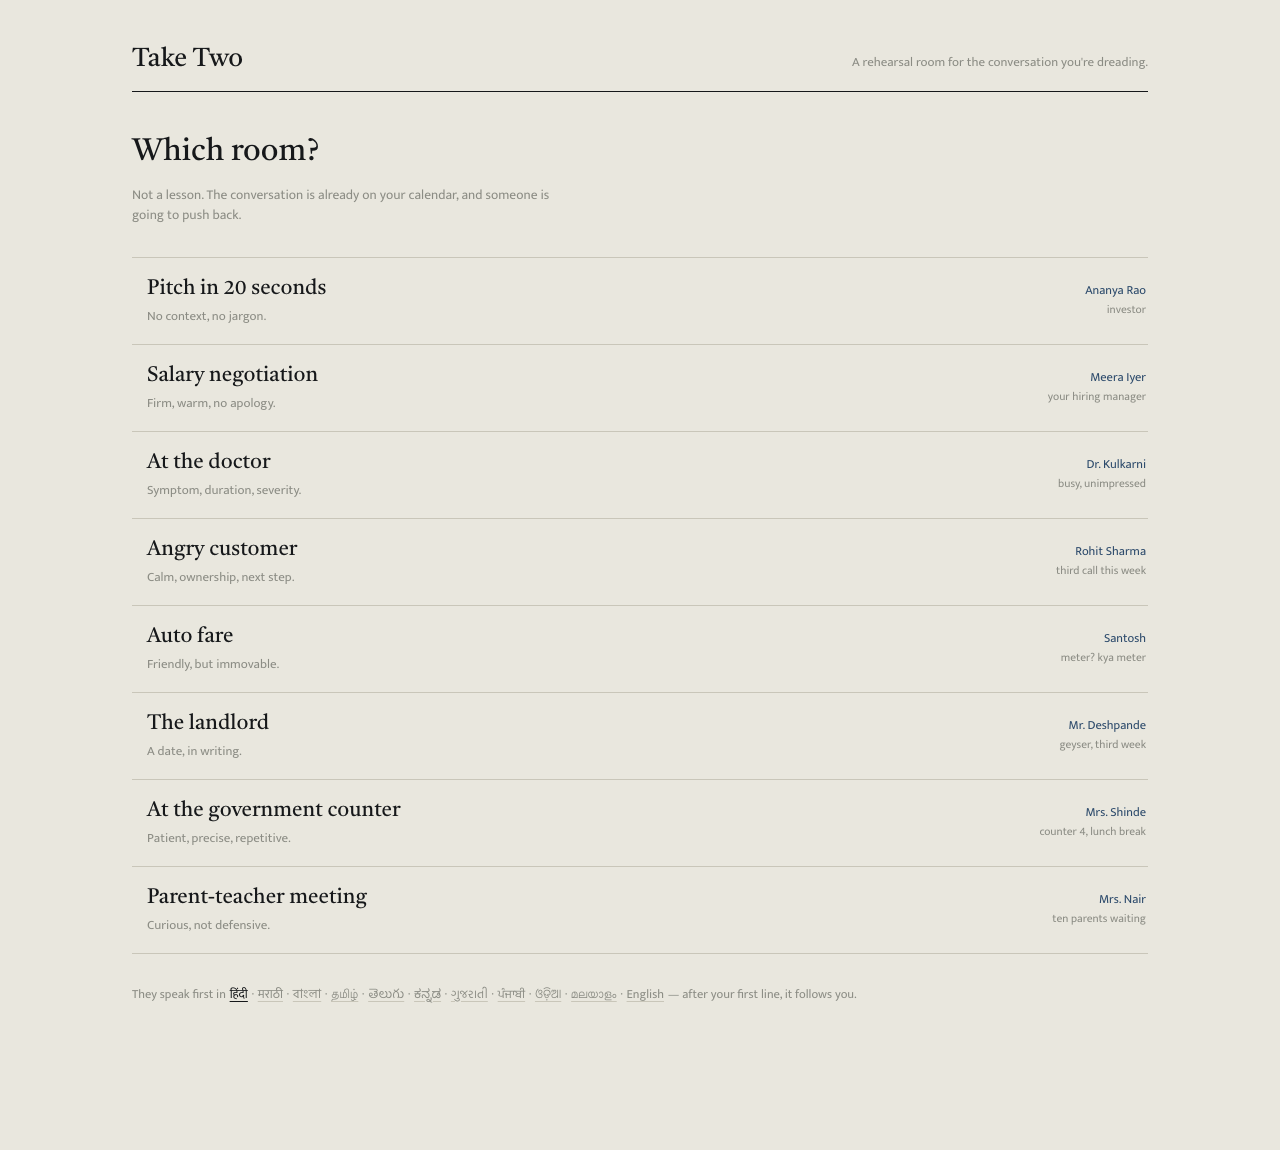
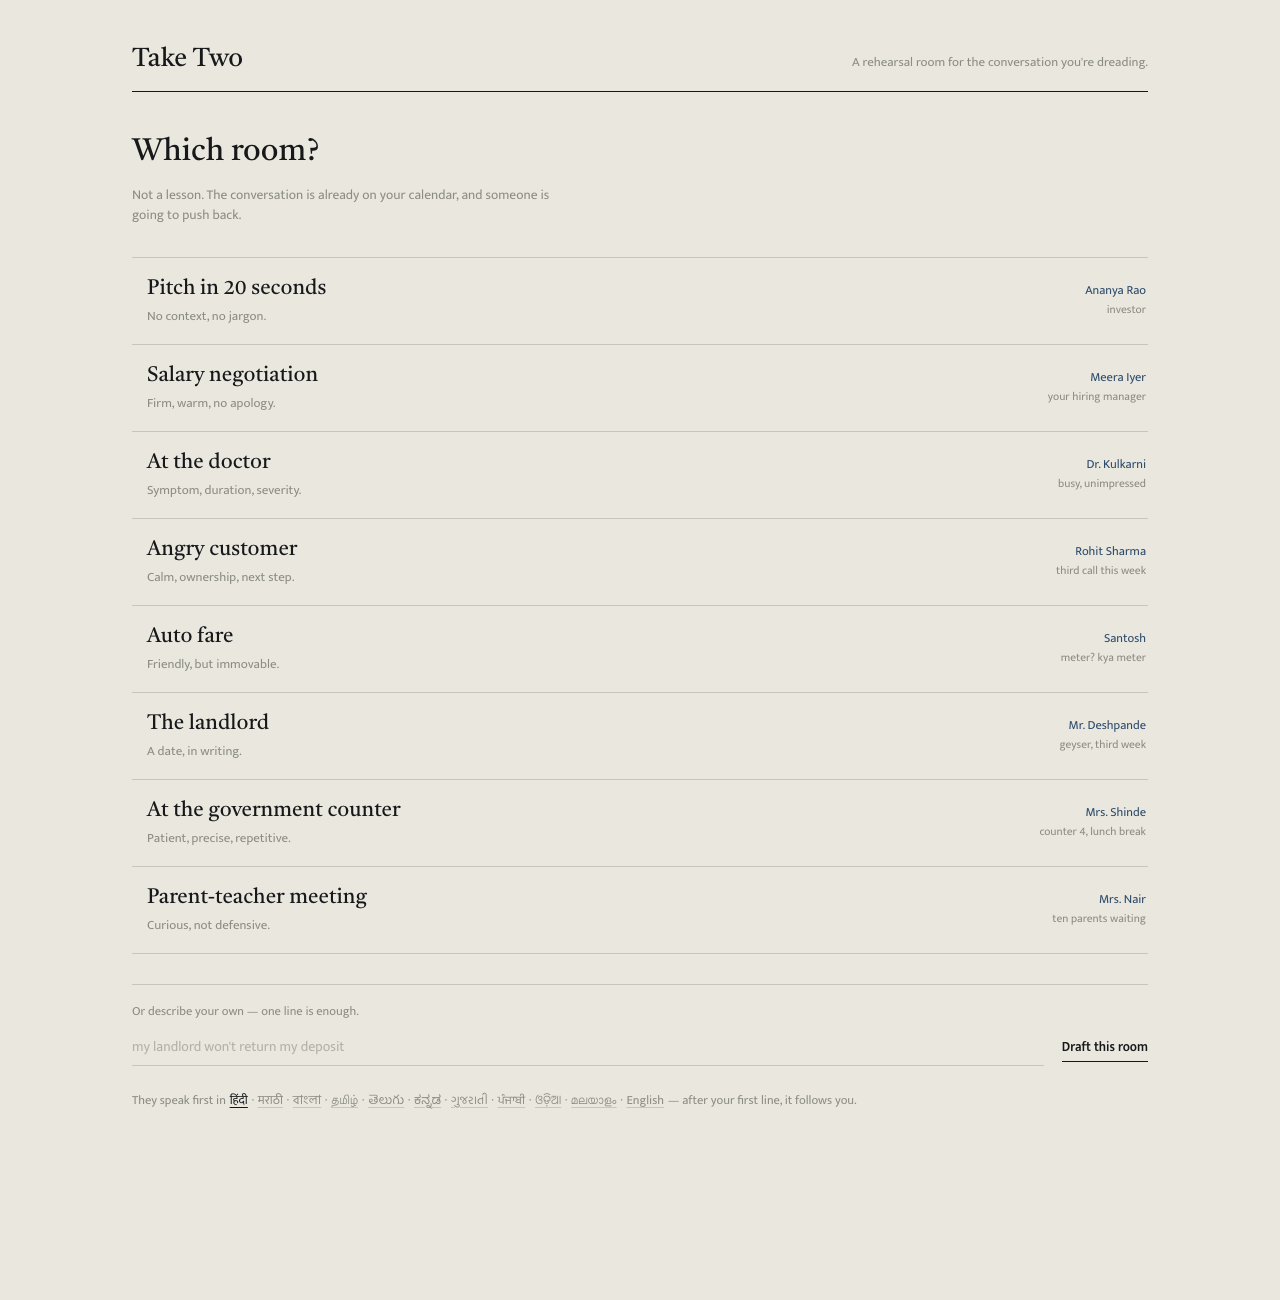
feat: draft a room from one line
Describe a conversation in a sentence; Gemini returns the title, the other
person, their agenda, the register, the success condition, and their numbers.

diff --git a/index.html b/index.html
@@ -43,6 +43,18 @@
   .room .other{color:var(--pencil);font-size:12.5px;text-align:right;line-height:1.35}
   .room .other em{display:block;color:var(--smoke);font-style:normal;font-size:11.5px;margin-top:2px}
 
+  .make{border-top:1px solid var(--rule);padding-top:18px;margin:0 0 24px}
+  .make label{display:block;font-size:12.5px;color:var(--smoke);margin-bottom:6px}
+  .makerow{display:flex;gap:18px;align-items:baseline}
+  .makerow input{flex:1;min-width:0;background:none;border:0;border-bottom:1px solid var(--rule);
+                 color:var(--ink);font-family:inherit;font-size:14px;padding:7px 0}
+  .makerow input::placeholder{color:#b3b0a5}
+  .makerow input:focus{outline:none;border-bottom-color:var(--pencil)}
+  .makerow button{background:none;border:0;border-bottom:1px solid var(--ink);padding:0 0 3px;
+                  font-family:inherit;font-size:13px;font-weight:600;color:var(--ink);
+                  cursor:pointer;white-space:nowrap}
+  .makerow button:hover{color:var(--red);border-color:var(--red)}
+  .makerow button:disabled{color:var(--smoke);border-color:var(--rule);cursor:default}
   .langline{font-size:12.5px;color:var(--smoke);margin:0}
   .langline button{background:none;border:0;padding:0 1px;font-family:inherit;font-size:12.5px;
                    color:var(--smoke);cursor:pointer;text-decoration:underline;text-underline-offset:3px;
@@ -160,6 +172,15 @@
     <h1>Which room?</h1>
     <p class="sub">Not a lesson. The conversation is already on your calendar, and someone is going to push back.</p>
     <ul class="rooms" id="rooms"></ul>
+
+    <div class="make">
+      <label for="desc">Or describe your own — one line is enough.</label>
+      <div class="makerow">
+        <input id="desc" placeholder="my landlord won't return my deposit" autocomplete="off" />
+        <button id="draft">Draft this room</button>
+      </div>
+    </div>
+
     <p class="langline">They speak first in
       <button data-lang="hi-IN" class="on">हिंदी</button> ·
       <button data-lang="mr-IN">मराठी</button> ·
@@ -200,15 +221,38 @@ const state = { room:null, lang:"hi-IN", hist:[], persona:"", rec:null, ac:null,
                 chunks:[], stream:null, t0:0, raf:null, turn:1, ended:false,
                 auto:true, spoke:false, arm:null };
 
-Object.entries(ROOMS).forEach(([k,r])=>{
+function addRoomCard(id, r, mine){
   const li = document.createElement("li");
   li.innerHTML = `<button class="room">
-      <span><b>${r.title}</b><small>${r.line}</small></span>
-      <span class="other">${r.who}<em>${r.role}</em></span>
+      <span><b>${esc(r.title)}</b><small>${esc(r.line)}${mine ? " · yours" : ""}</small></span>
+      <span class="other">${esc(r.who)}<em>${esc(r.role)}</em></span>
     </button>`;
-  li.querySelector("button").onclick = ()=>openScene(k);
-  $("#rooms").appendChild(li);
-});
+  li.querySelector("button").onclick = ()=>openScene(id);
+  if(mine) $("#rooms").prepend(li); else $("#rooms").appendChild(li);
+}
+
+Object.entries(ROOMS).forEach(([k,r])=>addRoomCard(k, r, false));
+
+async function draftRoom(){
+  const desc = $("#desc").value.trim();
+  if(desc.length < 8) return toast("A little more: who is it, and what do you want from them?");
+  const btn = $("#draft");
+  btn.disabled = true; btn.textContent = "Drafting…";
+  try{
+    const res = await fetch("/api/room", {method:"POST", headers:{"Content-Type":"application/json"},
+      body: JSON.stringify({description: desc})});
+    const d = await res.json();
+    if(!res.ok) throw new Error(d.error || "Couldn't draft that room.");
+    ROOMS[d.id] = {title:d.title, line:d.line, who:d.who, role:d.role};
+    addRoomCard(d.id, ROOMS[d.id], true);
+    $("#desc").value = "";
+    openScene(d.id);
+  }catch(e){ toast(e.message || "Couldn't draft that room."); }
+  finally{ btn.disabled = false; btn.textContent = "Draft this room"; }
+}
+
+$("#draft").onclick = draftRoom;
+$("#desc").addEventListener("keydown", e=>{ if(e.key === "Enter") draftRoom(); });
 
 document.querySelectorAll("[data-lang]").forEach(p=>{
   p.onclick = ()=>{

diff --git a/app.py b/app.py
@@ -3,6 +3,7 @@ import json
 import os
 import re
 import sys
+import uuid
 import time
 from datetime import datetime, timedelta
 
@@ -22,6 +23,13 @@ GEMINI_URL = f"https://generativelanguage.googleapis.com/v1beta/models/{GEMINI_M
 GEMINI_COOLDOWN = 90  # seconds to skip Gemini after a 429
 _gemini_blocked_until = 0.0
 _no_thinking = False  # flash-lite rejects thinkingConfig
+
+CUSTOM = {}
+
+
+def room_of(rid):
+    return CUSTOM.get(rid) or ROOMS.get(rid) or ROOMS["pitch"]
+
 
 client = SarvamAI(api_subscription_key=KEY)
 app = FastAPI()
@@ -232,12 +240,12 @@ def ask_json(messages, max_tokens=700):
 
 
 def scene_system(room, lang, history):
-    name, role, trait = ROOMS[room]["persona"]
+    name, role, trait = room_of(room)["persona"]
     label = LANG_LABEL.get(lang, "Hindi")
     mine = [t for r, t in history if r == "other" and t]
     turn = len([1 for r, _ in history if r == "other"]) + 1
     said = "\n".join(f"- {t}" for t in mine[-3:]) or "(none yet)"
-    numbers = ROOMS[room].get("numbers")
+    numbers = room_of(room).get("numbers")
     money = ""
     if numbers:
         quoted = []
@@ -347,9 +355,65 @@ def index():
     return FileResponse("index.html")
 
 
+DRAFT_SYSTEM = """You are setting up a rehearsal room for a difficult real conversation in India.
+The user describes their situation. You invent the other person and the frame.
+Return JSON only, no markdown:
+{"title":"max 5 words","hint":"max 6 words, what the user must get","persona_name":"a believable Indian name",
+ "persona_role":"their relationship to the user, e.g. your landlord","trait":"how they behave, 25 words, with an agenda",
+ "brief":"register guidance for the user, 30 words","success":"what a good outcome sounds like, 20 words",
+ "numbers":"if money or a quantity is central: their opening number and their floor; otherwise an empty string"}"""
+
+
+def draft_room(desc):
+    """Gemini drafts the room; Sarvam writes it if Gemini is unavailable."""
+    if GEMINI_KEY and time.time() >= _gemini_blocked_until:
+        try:
+            r = httpx.post(GEMINI_URL, params={"key": GEMINI_KEY}, json={
+                "systemInstruction": {"parts": [{"text": DRAFT_SYSTEM}]},
+                "contents": [{"role": "user", "parts": [{"text": desc}]}],
+                "generationConfig": {"temperature": 0.8, "responseMimeType": "application/json"},
+            }, timeout=30)
+            r.raise_for_status()
+            parts = r.json()["candidates"][0]["content"]["parts"]
+            out = parse_json("".join(p.get("text", "") for p in parts if not p.get("thought")))
+            if out.get("title") and out.get("persona_name"):
+                return out
+        except Exception as e:
+            print("draft via gemini failed:", str(e)[:140])
+    return ask_json([{"role": "system", "content": DRAFT_SYSTEM},
+                     {"role": "user", "content": desc}], 500)
+
+
+@app.post("/api/room")
+async def make_room(payload: dict):
+    desc = (payload.get("description") or "").strip()[:600]
+    if len(desc) < 8:
+        return JSONResponse({"error": "Tell me a bit more about the conversation."}, 400)
+    try:
+        out = await asyncio.to_thread(draft_room, desc)
+    except Exception as e:
+        print("draft failed:", str(e)[:160])
+        return JSONResponse({"error": "Couldn't draft that room. Try describing it differently."}, 502)
+
+    rid = "c" + uuid.uuid4().hex[:8]
+    CUSTOM[rid] = {
+        "title": (out.get("title") or "Your room")[:60],
+        "line": (out.get("hint") or "Your own conversation")[:60],
+        "brief": (out.get("brief") or desc)[:240],
+        "success": (out.get("success") or "You get what you came for.")[:180],
+        "persona": ((out.get("persona_name") or "The other person")[:48],
+                    (out.get("persona_role") or "the person across the table")[:48],
+                    (out.get("trait") or "guarded but reasonable")[:240]),
+        "numbers": (out.get("numbers") or "")[:200],
+        "custom": True,
+    }
+    return {"id": rid, "title": CUSTOM[rid]["title"], "line": CUSTOM[rid]["line"],
+            "who": CUSTOM[rid]["persona"][0], "role": CUSTOM[rid]["persona"][1]}
+
+
 @app.post("/api/open")
 async def open_scene(payload: dict):
-    room = payload.get("room") if payload.get("room") in ROOMS else "pitch"
+    room = payload.get("room") or "pitch"
     lang = payload.get("lang") or "hi-IN"
     try:
         line = await asyncio.to_thread(gemini_scene, room, lang, [])
@@ -357,14 +421,13 @@ async def open_scene(payload: dict):
         print("open failed:", str(e)[:160])
         return JSONResponse({"error": "The scene could not start. Try again."}, 502)
     audio = await asyncio.to_thread(speak, line, lang, OTHER)
-    name, role, _ = ROOMS[room]["persona"]
+    name, role, _ = room_of(room)["persona"]
     return {"line": line, "audio": audio, "name": name, "role": role, "lang": lang}
 
 
 @app.post("/api/turn")
 async def turn(room: str = Form(...), duration: float = Form(0), history: str = Form("[]"),
                file: UploadFile = File(...)):
-    room = room if room in ROOMS else "pitch"
     data = await file.read()
     transcript, lang = await asyncio.to_thread(transcribe, data, file.filename or "take.webm")
     if not transcript:
@@ -382,10 +445,11 @@ async def turn(room: str = Form(...), duration: float = Form(0), history: str = 
         compare = (f"\nTHEIR PREVIOUS ANSWER: {prev.get('text','')}"
                    f"\nIt scored {prev.get('score','?')}. Say what genuinely improved, quote their words.")
 
+    R = room_of(room)
     sys_prompt = f"""You are a blunt but warm speaking coach in India. The speaker already speaks this language. You are NOT teaching language, grammar or vocabulary. You are coaching how they are heard.
 
-ROOM: {ROOMS[room]['title']} - {ROOMS[room]['brief']}
-SUCCESS LOOKS LIKE: {ROOMS[room]['success']}
+ROOM: {R['title']} - {R['brief']}
+SUCCESS LOOKS LIKE: {R['success']}
 THE OTHER PERSON JUST SAID: {said}{compare}
 
 Rules:

diff --git a/README.md b/README.md
@@ -53,6 +53,8 @@ GEMINI_API_KEY=...
 | At the government counter | Mrs. Shinde | The exact document and counter |
 | Parent–teacher meeting | Mrs. Nair | One thing to do this week |
 
+**Or describe your own.** One line — *"my landlord won't return my deposit"* — and Gemini drafts the room: a title, the other person's name and agenda, the register you need, what a good outcome sounds like, and their anchor and floor if money is involved. It opens straight into the scene.
+
 Eleven languages: Hindi, Marathi, Bengali, Tamil, Telugu, Kannada, Gujarati, Punjabi, Odia, Malayalam, English. The opener language is a hint — after your first line it follows what you actually speak.
 
 ## How a turn works
